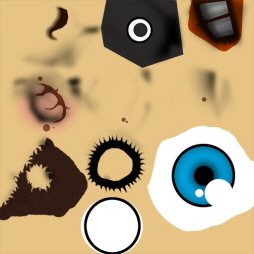
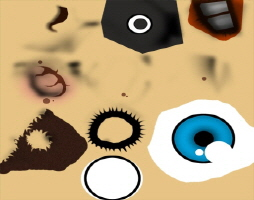
#218 Texture.zoomOut, exture.zoomIn, Texture.crop, Texture.addSpace 비디오제외 구현완료

diff --git a/showcase/textureOption.html b/showcase/textureOption.html
@@ -1,0 +1,137 @@
+<!DOCTYPE html>
+<html lang="ko">
+<head>
+    <title>Texture Option Test</title>
+    <meta charset="utf-8"/>
+    <meta property="og:title" content="Texture Option Test"/>
+    <meta property="og:description" content="MoGL.js version"/>
+    <meta http-equiv="Content-Type" content="text/html; charset=UTF-8"/>
+    <meta name="format-detection" content="telephone=no"/>
+    <meta name="apple-mobile-web-app-capable" content="yes"/>
+    <meta name="apple-mobile-web-app-status-bar-style" content="black"/>
+    <meta name="viewport"
+          content="width=device-width, initial-scale=1.0, minimum-scale=1.0, maximum-scale=1.0, user-scalable=no,target-densitydpi=high-dpi "/>
+    <script type="text/javascript" src="dat.gui.min.js"></script>
+    <style>
+        body {
+            background-color: #000;
+            margin: 0;
+            padding: 0;
+            overflow: hidden;
+            height: 100%;
+        }
+
+        .FPS {
+            color: #FFF;
+            left: 0px;
+            top: 0px;
+            position: absolute;
+        }
+    </style>
+    <script src="../src/MoGL.js"></script>
+    <script src="../src/BlendMode.js"></script>
+    <script src="../src/Filter.js"></script>
+    <script src="../src/Primitive.js"></script>
+    <script src="../src/Vertex.js"></script>
+    <script src="../src/Shading.js"></script>
+    <script src="../src/VertexShaderFunctions.js"></script>
+    <script src="../src/Matrix.js"></script>
+    <script src="../src/Geometry.js"></script>
+    <script src="../src/Material.js"></script>
+    <script src="../src/Texture.js"></script>
+    <script src="../src/Mesh.js"></script>
+    <script src="../src/Group.js"></script>
+    <script src="../src/Camera.js"></script>
+    <script src="../src/Scene.js"></script>
+    <script src="../src/World.js"></script>
+</head>
+<body>
+<canvas id="canvas"></canvas>
+<div class="FPS">
+    Current FPS: <span id="currentFPS"></span>
+    Average FPS: <span id="averageFPS"></span>
+</div>
+
+<script>
+    'use strict';
+
+    var world = new World('canvas');
+    var scene = new Scene();
+
+    var divCurrentFPS = document.getElementById('currentFPS');
+    var divAverageFPS = document.getElementById('averageFPS');
+    var prevTime = 0;
+
+    world.addScene('scene', scene);
+
+    scene.addChild('camera', new Camera());
+    scene.getChild('camera').setBackgroundColor('#fff')
+    scene.addMaterial('material', new Material());
+    scene.addMaterial('materialZoomout', new Material());
+    scene.addMaterial('materialZoomIn', new Material());
+    scene.addMaterial('materialCrop', new Material());
+    scene.addMaterial('materialAddSpace', new Material());
+
+    scene.addTexture('textureZoomout', 'monkey/Suzanne.jpg', Texture.zoomIn);
+    scene.addTexture('textureZoomIn', 'monkey/Suzanne.jpg', Texture.zoomOut);
+    scene.addTexture('textureCrop', 'monkey/Suzanne.jpg', Texture.crop);
+    scene.addTexture('textureAddSpace', 'monkey/Suzanne.jpg', Texture.addSpace);
+
+    scene.getMaterial('materialZoomout').addTexture(Texture.diffuse, 'textureZoomout');
+    scene.getMaterial('materialZoomIn').addTexture(Texture.diffuse, 'textureZoomIn');
+    scene.getMaterial('materialCrop').addTexture(Texture.diffuse, 'textureCrop');
+    scene.getMaterial('materialAddSpace').addTexture(Texture.diffuse, 'textureAddSpace');
+
+    world.addRender('scene', 'camera');
+
+    scene.addGeometry('rect', new Geometry(
+                    [
+                        1.0, 1.0, 0.0, 0.0, 0.0,
+                        -1.0, 1.0, 0.0, 1.0, 0.0,
+                        1.0, -1.0, 0.0, 0.0, 1.0,
+                        -1.0, -1.0, 0.0, 1.0, 1.0
+                    ],
+                    [
+                        0, 1, 2, 1, 2, 3
+                    ],
+                    [
+                        Vertex.x, Vertex.y, Vertex.z, Vertex.u, Vertex.v
+                    ]
+            )
+    )
+
+
+    var meshZoomout = new Mesh('rect', 'materialZoomout')
+    var meshZoomIn = new Mesh('rect', 'materialZoomIn')
+    var meshCrop = new Mesh('rect', 'materialCrop')
+    var meshAddSpace = new Mesh('rect', 'materialAddSpace')
+    var mesh = new Mesh('rect', 'material')
+
+
+    scene.addChild('meshZoomout',meshZoomout)
+    scene.addChild('meshZoomIn',meshZoomIn)
+    scene.addChild('mesh',mesh)
+    scene.addChild('meshCrop',meshCrop)
+    scene.addChild('meshAddSpace',meshAddSpace)
+
+    meshZoomout.x = -5
+    meshZoomIn.x = -2.5
+    mesh.x = 0
+    meshCrop.x = 2.5
+    meshAddSpace.x = 5
+
+    var sum = 0, count = 1;
+    function render(currTime) {
+        var currentFPS = 1000 / ( currTime - prevTime );
+        prevTime = currTime;
+        count++
+        divCurrentFPS.textContent = currentFPS.toFixed(2);
+        divAverageFPS.textContent = ( ( sum += currentFPS ) / count ).toFixed(2);
+        world.render();
+        requestAnimationFrame(render);
+    }
+    requestAnimationFrame(render);
+
+</script>
+</body>
+</html>

diff --git a/src/Scene.js b/src/Scene.js
@@ -451,11 +451,24 @@ var Scene = (function () {
 			//TODO 이걸 인자타입에 따라 다르게 적용하면되겠군
 			while (img.width > tw) tw *= 2;
 			while (img.height > th) th *= 2;
-			console.log('텍스쳐크기 자동변환',img.width, img.height, '--->', tw, th),
+			if (resize == Texture.zoomOut) {
+				if (img.width < tw) tw /= 2
+				if (img.height < th) th /= 2
+			} else if (resize == Texture.zoomIn) {}
+			var dw = tw, dh = th;
 			textureCVS.width = tw,
 			textureCVS.height = th,
-			textureCTX.clearRect(0, 0, tw, th),
-			textureCTX.drawImage(img, 0, 0, tw, th),
+			textureCTX.clearRect(0, 0, tw, th)
+			if (resize == Texture.crop) {
+				if (img.width < tw) dw = tw / 2
+				if (img.height < th) dh = th / 2
+				textureCTX.drawImage(img, 0, 0, tw, th, 0, 0, dw, dh)
+			} else if (resize == Texture.addSpace) {
+				textureCTX.drawImage(img, 0, 0, tw, th, 0, 0, tw, th)
+			} else {
+				textureCTX.drawImage(img, 0, 0, dw, dh)
+			}
+			console.log(resize,'텍스쳐크기 자동변환', img.width, img.height, '--->', dw, dh),
 			console.log(textureCVS.toDataURL()),
 			img2.src = textureCVS.toDataURL()
 		}

diff --git a/showcase/monkeys.html b/showcase/monkeys.html
@@ -68,7 +68,7 @@
 
         scene.addChild('camera', new Camera());
         scene.addMaterial('material', new Material());
-        scene.addTexture('texture', 'monkey/Suzanne.jpg',Texture.crop);
+        scene.addTexture('texture', 'monkey/Suzanne.jpg',Texture.addSpace);
         scene.getMaterial('material').addTexture(Texture.diffuse, 'texture');
         scene.getMaterial('material').setShading(Shading.phong)
 //        scene.getMaterial('material').setShading(Shading.gouraud)

diff --git a/src/Mesh.js b/src/Mesh.js
@@ -21,7 +21,7 @@ var Mesh = (function () {
         this._material = material,
         this._scene = null,
         this._parent = null,
-        this.rotateX = 0, this.rotateY = 1, this.rotateZ = 0,
+        this.rotateX = 0, this.rotateY = 0, this.rotateZ = 0,
         this.scaleX = 1, this.scaleY = 1, this.scaleZ = 1,
         this.x = 0, this.y = 0, this.z = 0
     },
